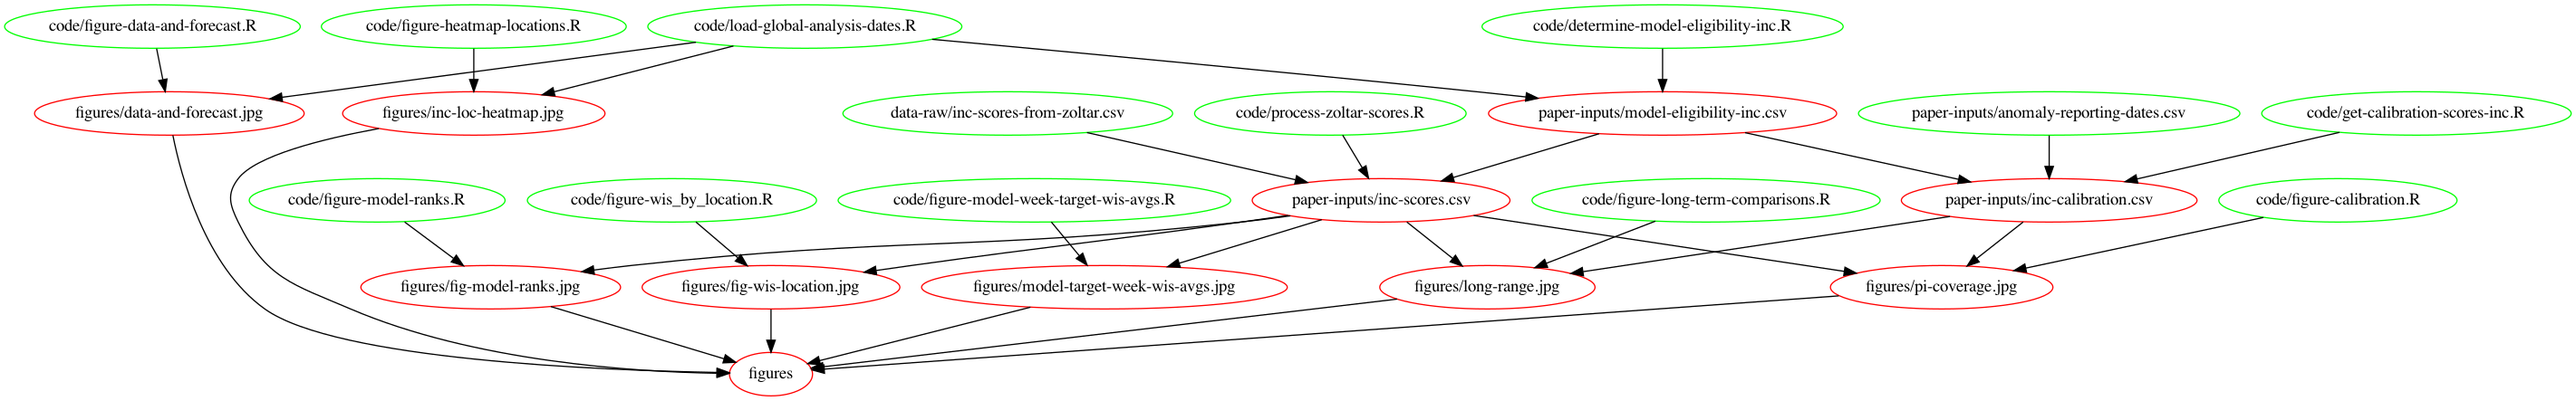
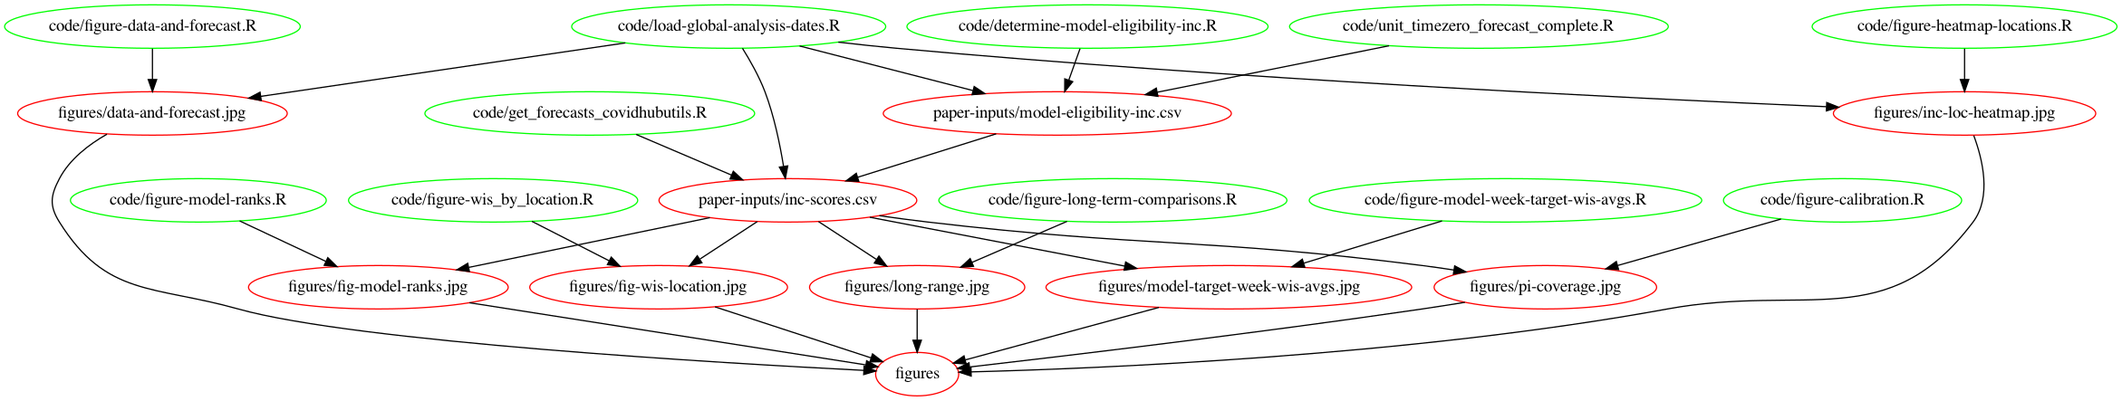
updating analysis workflow and documentation:  - move truth data version date to a global analysis date  - removing inc-calibration.csv as a used file as those scores are now in inc_scores.csv  - updating README, makefile, and figure.  - including target as saved variable in inc_scores.csv

diff --git a/README.md b/README.md
@@ -6,7 +6,9 @@ This repository contains code and data for forecast evaluations.
 
 This analysis primarily uses R. Most of the products (figures and data tables) for an ongoing research project should be available by using the `makefile` document in the root directory of this repository.
 
-The main file with computed scores in it can be found in `paper-inputs/inc-scores.csv`. Some additional scores regarding calibration and prediction interval coverage of forecasts can be found in `paper-inputs/inc-calibration.csv`. Figures for an ongoing analysis can be found in `figures/`.
+The main file with computed scores in it can be found in `paper-inputs/inc-scores.csv`. To build this file requires the [`covidHubUtils`](https://github.com/reichlab/covidHubUtils) and the [`covidData`](https://github.com/reichlab/coviddata) R packages.
+
+Figures for an ongoing analysis can be found in `figures/`.
 
 The graphical depiction of the dependency structure between data and code files looks like this:
 ![makefile dependency graph](makefile-network-graph.png)
